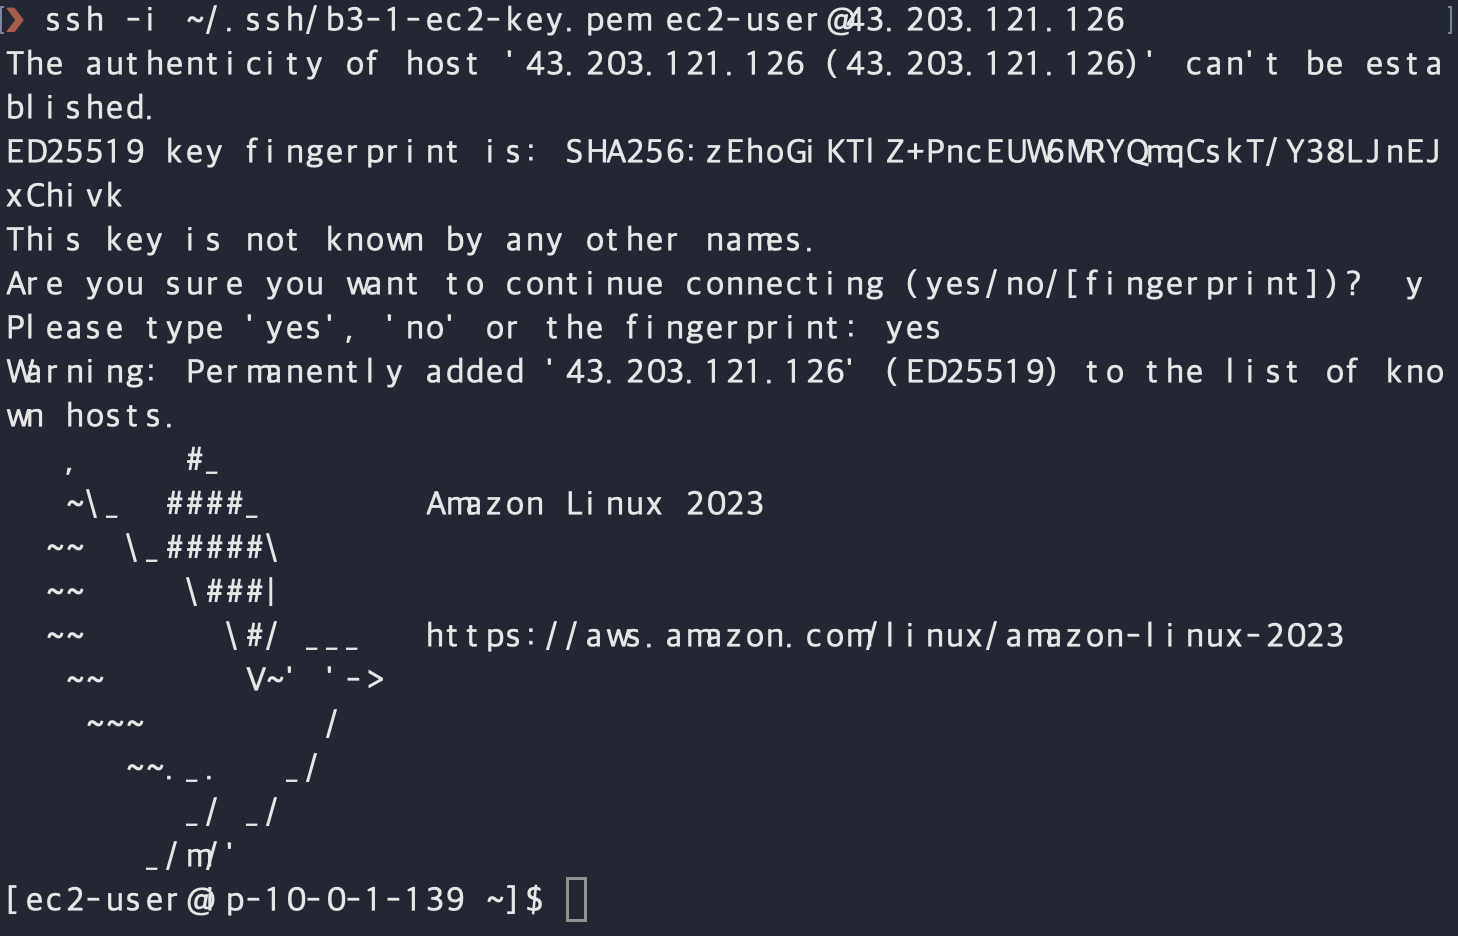
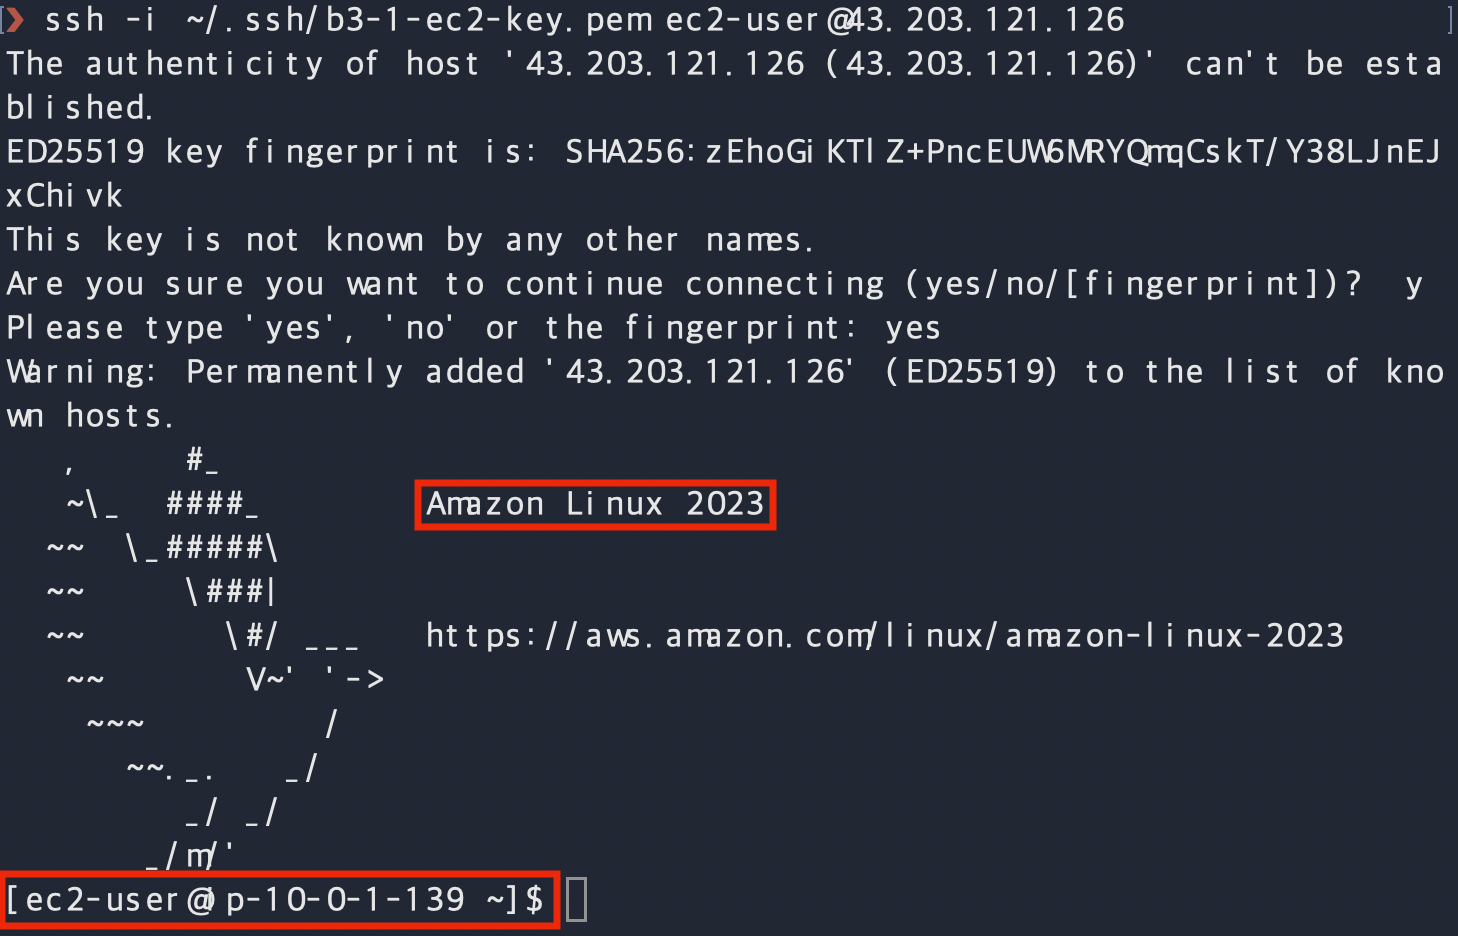
docs: add E02/E03 instance captures and frame all evidence images
Adds masked captures of the b3-1-web details (ID, running, t3.micro,
subnet, public IP) and its security tab (only b3-1-web-sg attached),
and adds red frames to the remaining evidence images.

Changed region(s): [[0.0, 0.9295, 0.4012, 1.0], [0.2778, 0.4957, 0.5556, 0.5887]]

diff --git a/docs/rubric/항목 1 (E01~E05).md b/docs/rubric/항목 1 (E01~E05).md
@@ -39,9 +39,15 @@
 
 | 스크린샷 | 보여 주는 것 | 상태 |
 | --- | --- | --- |
-| `e02-instance-detail.png` | 인스턴스 ID, 실행 중, 유형, 서브넷, 퍼블릭 IP | 미첨부 |
+| `e02-instance-detail.png` | 인스턴스 ID, 실행 중, 유형, 서브넷, 퍼블릭 IP | 있음 |
 | `e02-ssh-connected.png` | SSH 접속 성공 | 있음 |
 | `e02-server-checks.png` | Nginx 실행, `localhost` 200, 서버에서 밖으로 나가는 통신 200 | 있음 |
+
+![EC2 b3-1-web 세부 정보](../../img/evidence/e02-instance-detail.png)
+
+- `b3-1-web`(`i-0ea7601c076fbc132`)이 실행 중이고, 유형은 `t3.micro`, 서브넷은 `b3-1-public-subnet`이다.
+- 퍼블릭 IPv4 주소 `43.203.121.126`이 아래 SSH 접속과 외부 접속(E04)에 쓴 주소와 같다.
+- 화면 가운데의 Compute Optimizer 오류는 실습 사용자에게 그 서비스 조회 권한이 없어 뜬 것이며, EC2 동작과는 관계없다.
 
 ![SSH 접속 화면](../../img/evidence/e02-ssh-connected.png)
 
@@ -54,9 +60,14 @@
 | 스크린샷 | 보여 주는 것 | 상태 |
 | --- | --- | --- |
 | `e03-inbound-rules.png` | HTTP 80 ← `0.0.0.0/0`, SSH 22 ← IP 한 개(`/32`) | 있음 |
-| `e03-ec2-security.png` | EC2에 붙은 보안 그룹이 `b3-1-web-sg` 하나뿐 | 미첨부 |
+| `e03-ec2-security.png` | EC2에 붙은 보안 그룹이 `b3-1-web-sg` 하나뿐 | 있음 |
 
 ![보안 그룹 인바운드 규칙 (계정 ID와 내 IP는 가림)](../../img/evidence/e03-inbound-rules.png)
+
+![EC2 b3-1-web 보안 탭 (계정 ID와 내 IP는 가림)](../../img/evidence/e03-ec2-security.png)
+
+- `b3-1-web`에 붙은 보안 그룹은 `sg-0b65376c4e71e9d39`(`b3-1-web-sg`) 하나뿐이다.
+- 이 EC2에 실제로 적용되는 인바운드 규칙은 TCP 80 ← `0.0.0.0/0`, TCP 22 ← IP 한 개(`/32`) 두 줄이다.
 
 ## B3-1-E04
 
